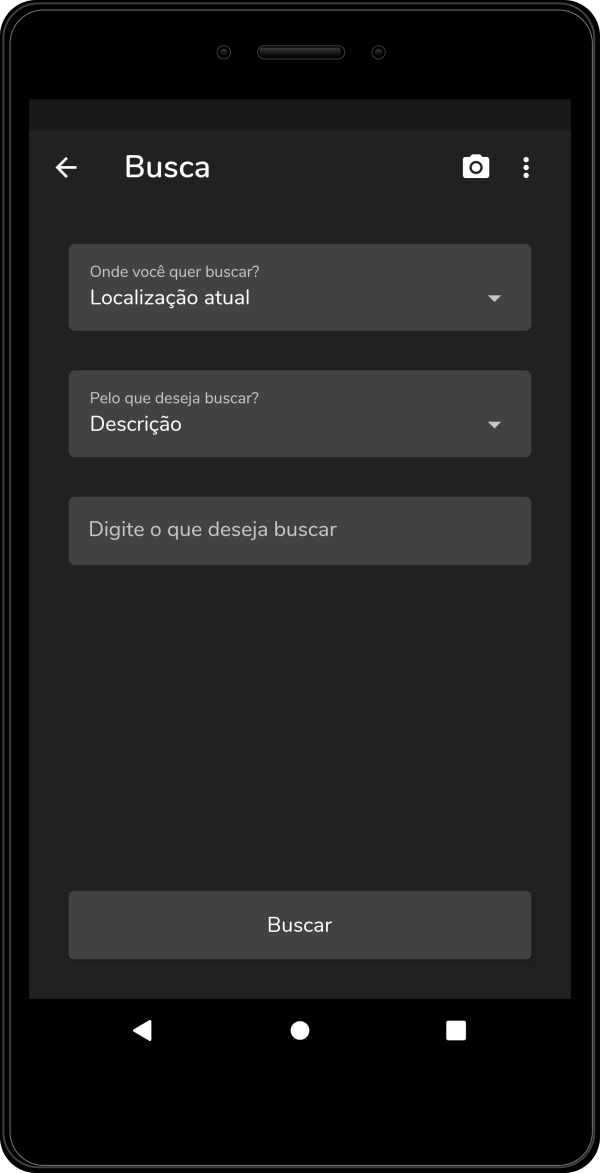
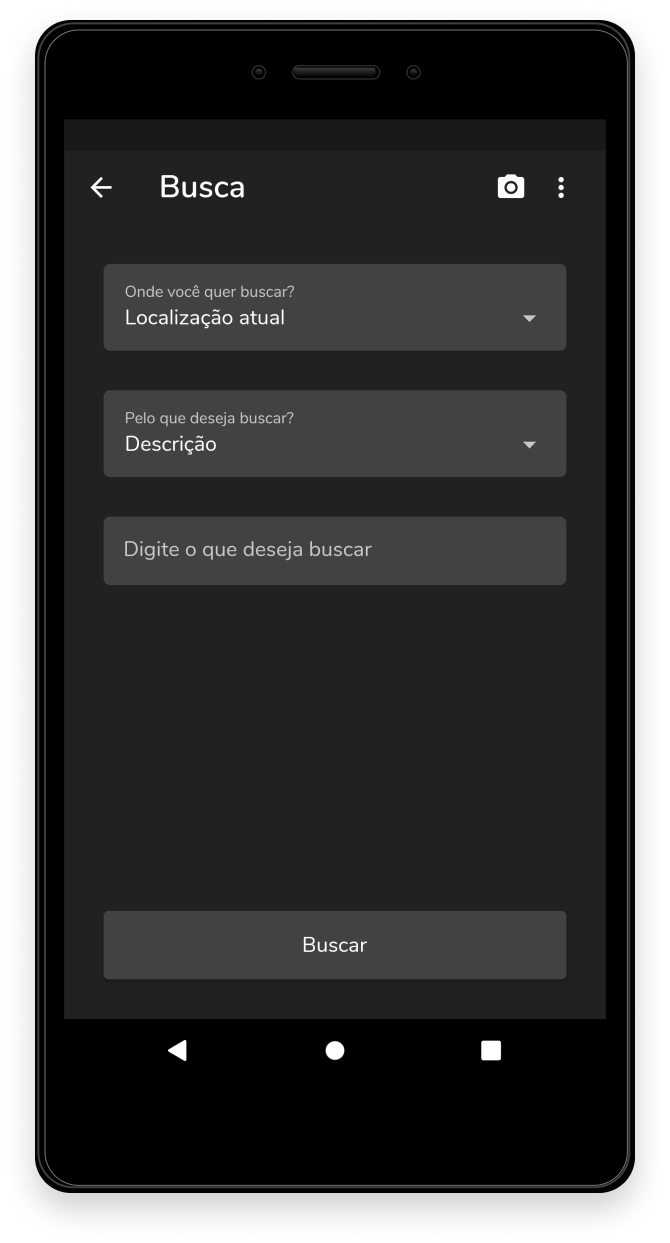
fix(device): use images with box-shadow already included

diff --git a/src/elements/DeviceThemed.jsx b/src/elements/DeviceThemed.jsx
@@ -7,15 +7,10 @@ const DeviceThemed = () => {
   const [mode] = useColorMode();
   const isLight = mode === `light`;
   const ColoredDevice = isLight ? DeviceLight : DeviceDark;
-  const boxShadow = isLight
-    ? `0px 15px 35px rgba(0, 0, 0, 0.2)`
-    : `0px 15px 35px rgba(89, 89, 89, 0.3)`;
 
   return (
     <ColoredDevice
       sx={{
-        boxShadow,
-        borderRadius: `36px`,
         marginTop: [`-7rem`, `-7rem`, 0],
         maxWidth: 400,
         marginRight: `auto`,
